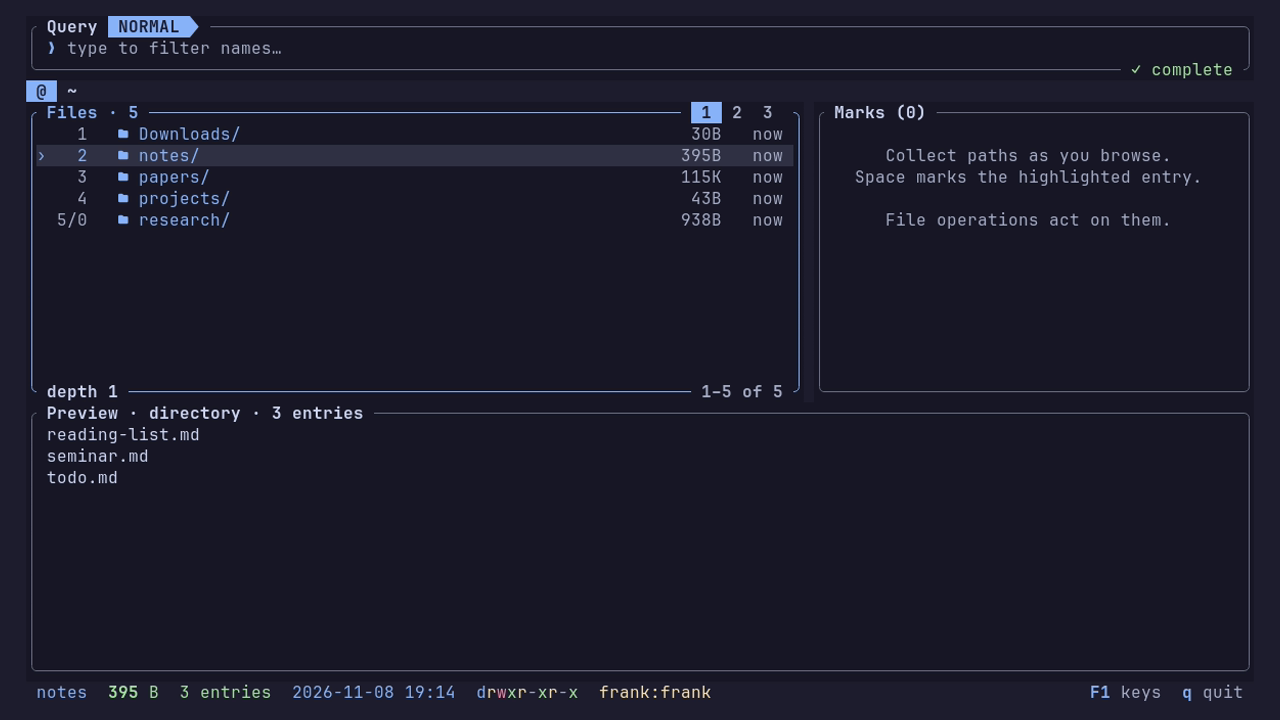
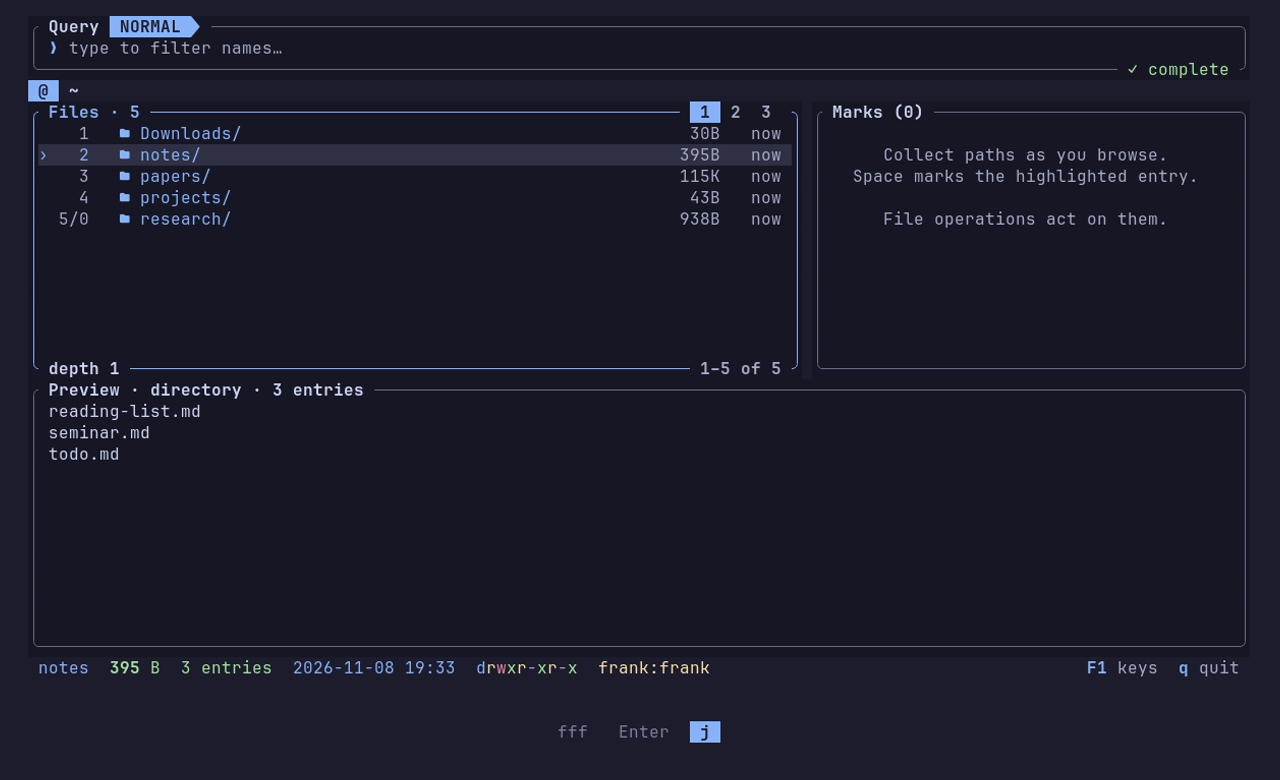
Recordings show the keys pressed, and the contents recording opens the PDF in zathura

diff --git a/docs/demos/keys.py b/docs/demos/keys.py
@@ -1,0 +1,151 @@
+#!/usr/bin/env python3
+"""Shows the keys pressed during a recording, as captions under the terminal.
+
+    keys.py record FILE -- COMMAND...   run COMMAND in a terminal of its own,
+                                        writing the keys typed into it to FILE
+    keys.py show FILE                   draw FILE's keys, redrawn as it changes
+
+The recording runs both in two tmux panes (see session.sh). Keys typed in
+quick succession make one caption, as screenkey shows them: a word typed
+into the query (`stab`), a command line (`fff --depth 3`) or a sequence
+(`gP`). Other keys are named: Esc, Enter, Tab, Space, arrows, Ctrl+c; the
+terminal's own reports (focus, replies to queries) are left out.
+"""
+import json
+import os
+import pty
+import select
+import signal
+import struct
+import sys
+import termios
+import time
+import tty
+import fcntl
+
+# Keys closer together than this are one caption.
+JOIN = 0.25
+# Captions older than this are drawn dimmed.
+FRESH = 3.0
+NAMES = {
+    "\r": "Enter", "\x1b": "Esc", "\t": "Tab", "\x7f": "Backspace", " ": "Space",
+    "\x1b[A": "↑", "\x1b[B": "↓", "\x1b[C": "→", "\x1b[D": "←",
+    "\x1bOA": "↑", "\x1bOB": "↓", "\x1bOC": "→", "\x1bOD": "←",
+    "\x1b[5~": "PageUp", "\x1b[6~": "PageDown", "\x1b[Z": "Shift+Tab",
+}
+
+
+def name(chunk):
+    """A key's caption, or None for text to join into the current one."""
+    if chunk in NAMES:
+        return NAMES[chunk]
+    if len(chunk) == 1 and ord(chunk) < 32:
+        return "Ctrl+" + chr(ord(chunk) + 96)
+    if len(chunk) == 2 and chunk[0] == "\x1b":
+        return "Alt+" + chunk[1]
+    if chunk.startswith("\x1b"):
+        return ""
+    return None
+
+
+def record(path, argv):
+    captions = []  # [text, time, joinable]
+
+    def save():
+        with open(path + ".tmp", "w") as f:
+            json.dump(captions[-40:], f)
+        os.replace(path + ".tmp", path)
+
+    save()
+    pid, master = pty.fork()
+    if pid == 0:
+        os.execvp(argv[0], argv)
+
+    def resize(*_):
+        size = fcntl.ioctl(0, termios.TIOCGWINSZ, b"\0" * 8)
+        fcntl.ioctl(master, termios.TIOCSWINSZ, size)
+
+    resize()
+    signal.signal(signal.SIGWINCH, resize)
+    old = termios.tcgetattr(0)
+    tty.setraw(0)
+    try:
+        while True:
+            try:
+                ready, _, _ = select.select([0, master], [], [])
+            except InterruptedError:
+                continue
+            if master in ready:
+                try:
+                    data = os.read(master, 65536)
+                except OSError:
+                    break
+                if not data:
+                    break
+                os.write(1, data)
+            if 0 in ready:
+                data = os.read(0, 1024)
+                os.write(master, data)
+                chunk, now = data.decode("utf-8", "replace"), time.time()
+                key = name(chunk)
+                if key == "":
+                    continue  # the terminal's own reports, not keys
+                last = captions[-1] if captions else None
+                if key is None or (key == "Space" and last and last[2] and now - last[1] < JOIN):
+                    if last and last[2] and now - last[1] < JOIN:
+                        last[0] += chunk
+                        last[1] = now
+                    else:
+                        captions.append([chunk, now, True])
+                else:
+                    captions.append([key, now, False])
+                save()
+    finally:
+        termios.tcsetattr(0, termios.TCSADRAIN, old)
+    os.waitpid(pid, 0)
+
+
+def show(path):
+    # Catppuccin Mocha, as the recordings' palette.
+    base, text, chip, newest, dim = "30;30;46", "205;214;244", "69;71;90", "137;180;250", "127;132;156"
+    sys.stdout.write("\x1b[?25l")
+    drawn = None
+    while True:
+        try:
+            with open(path) as f:
+                captions = json.load(f)
+        except (OSError, ValueError):
+            captions = []
+        now = time.time()
+        width = os.get_terminal_size().columns
+        state = ([c[0] for c in captions], [now - c[1] < FRESH for c in captions])
+        if state != drawn:
+            drawn = state
+            chips, used = [], 0
+            for i, (label, at, _) in enumerate(reversed(captions)):
+                label = label.replace("\x1b", "")
+                cell = len(label) + 2
+                if used + cell + 1 > width - 4:
+                    break
+                used += cell + 1
+                if i == 0 and now - at < FRESH:
+                    colors = f"48;2;{newest};38;2;{base};1"
+                elif now - at < FRESH:
+                    colors = f"48;2;{chip};38;2;{text}"
+                else:
+                    colors = f"48;2;{base};38;2;{dim}"
+                chips.append(f"\x1b[{colors}m {label} \x1b[0;48;2;{base}m")
+            line = " ".join(reversed(chips))
+            pad = max(0, (width - used) // 2)
+            sys.stdout.write(f"\x1b[48;2;{base}m\x1b[2J\x1b[2;1H{' ' * pad}{line}")
+            sys.stdout.flush()
+        time.sleep(0.03)
+
+
+if __name__ == "__main__":
+    if sys.argv[1:2] == ["record"] and "--" in sys.argv:
+        record(sys.argv[2], sys.argv[sys.argv.index("--") + 1:])
+    elif sys.argv[1:2] == ["show"]:
+        show(sys.argv[2])
+    else:
+        sys.exit(__doc__)

diff --git a/docs/demos/contents-x.py b/docs/demos/contents-x.py
@@ -1,0 +1,35 @@
+#!/usr/bin/env python3
+"""The keys of the contents recording, played into the X display that
+record-x.sh starts (DISPLAY), as a tape plays them into VHS."""
+import subprocess
+import time
+
+
+def run(*args):
+    subprocess.run(["xdotool", *args], check=True)
+
+
+def sleep(seconds):
+    time.sleep(seconds)
+
+
+def type_(text, delay=0.09):
+    for c in text:
+        run("type", "--delay", "0", c)
+        time.sleep(delay)
+
+
+def key(name, wait=0.3):
+    run("key", name)
+    time.sleep(wait)
+
+
+type_("fff --depth 3"); sleep(0.4); key("Return", 1.8)
+type_("i"); sleep(0.3); key("Tab", 0.6)
+type_("Sobolev embedding", 0.12); sleep(2)
+key("Escape"); type_("j"); sleep(1.2)
+type_("j"); sleep(1.2); type_("k"); sleep(1.2)
+# L opens the PDF at the match, beside fff; the terminal keeps the keyboard.
+type_("L"); sleep(1.5)
+subprocess.run(["i3-msg", "-q", "focus", "left"], check=True)
+sleep(4)
